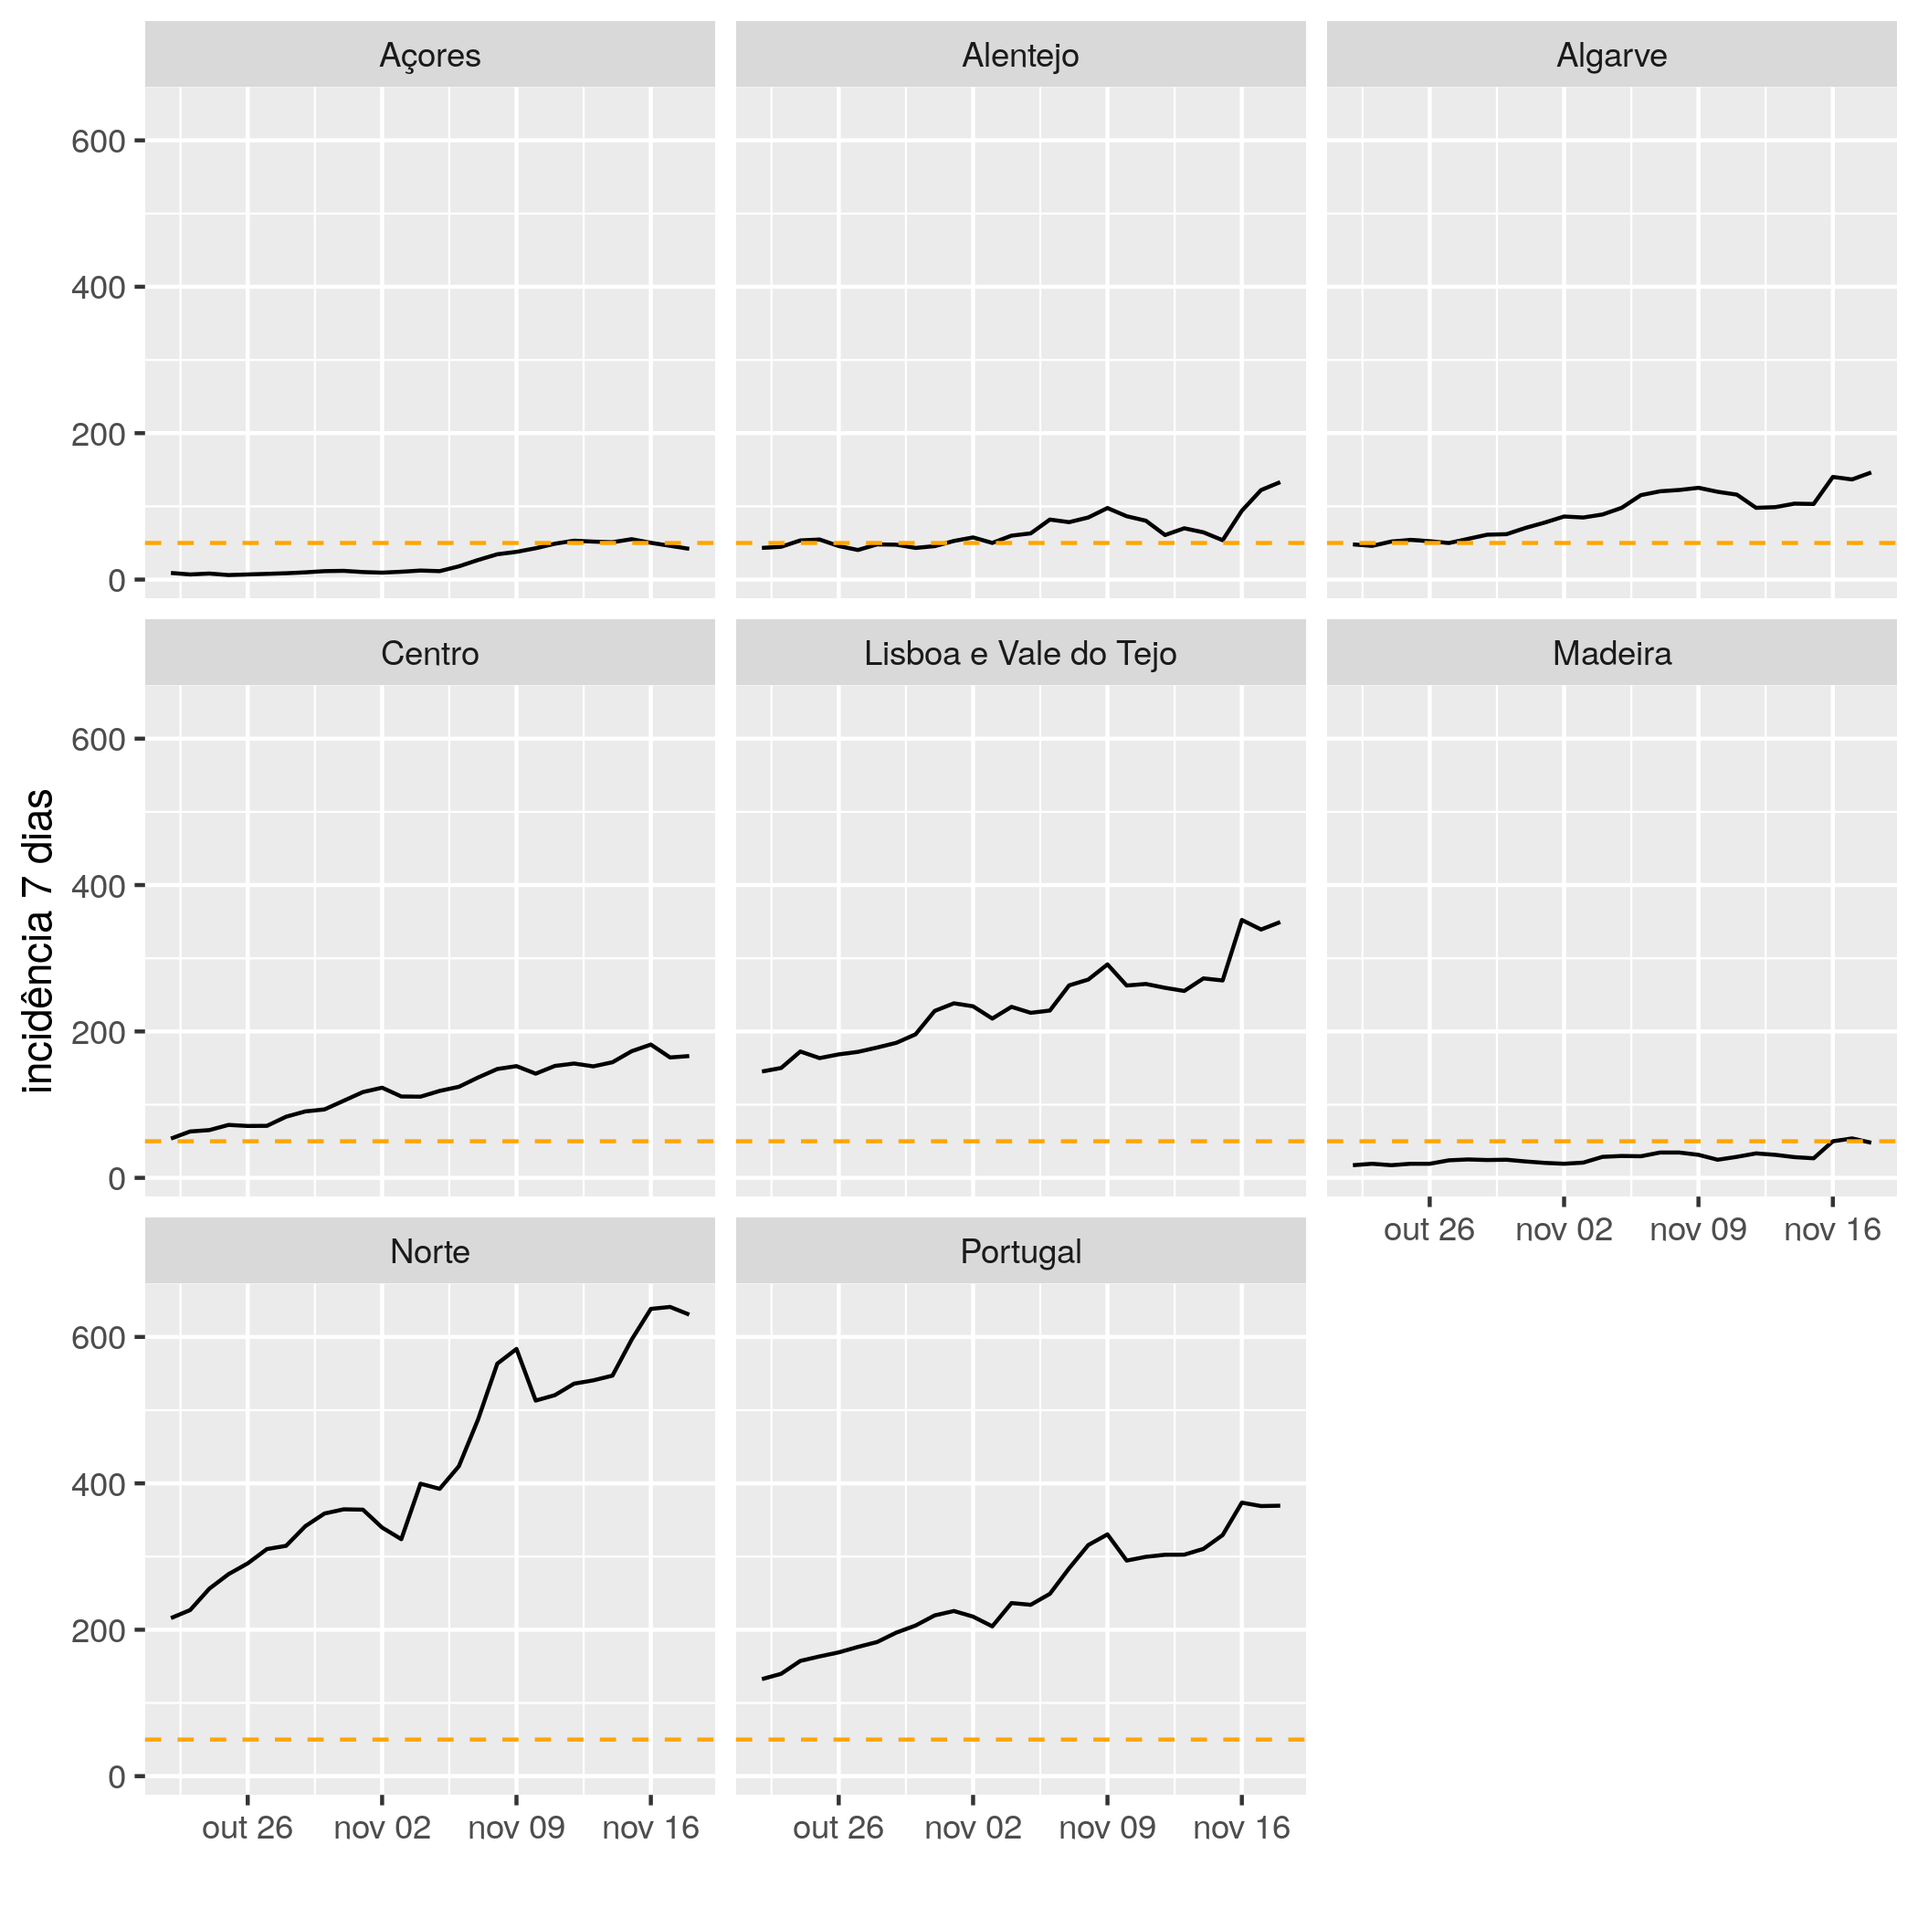
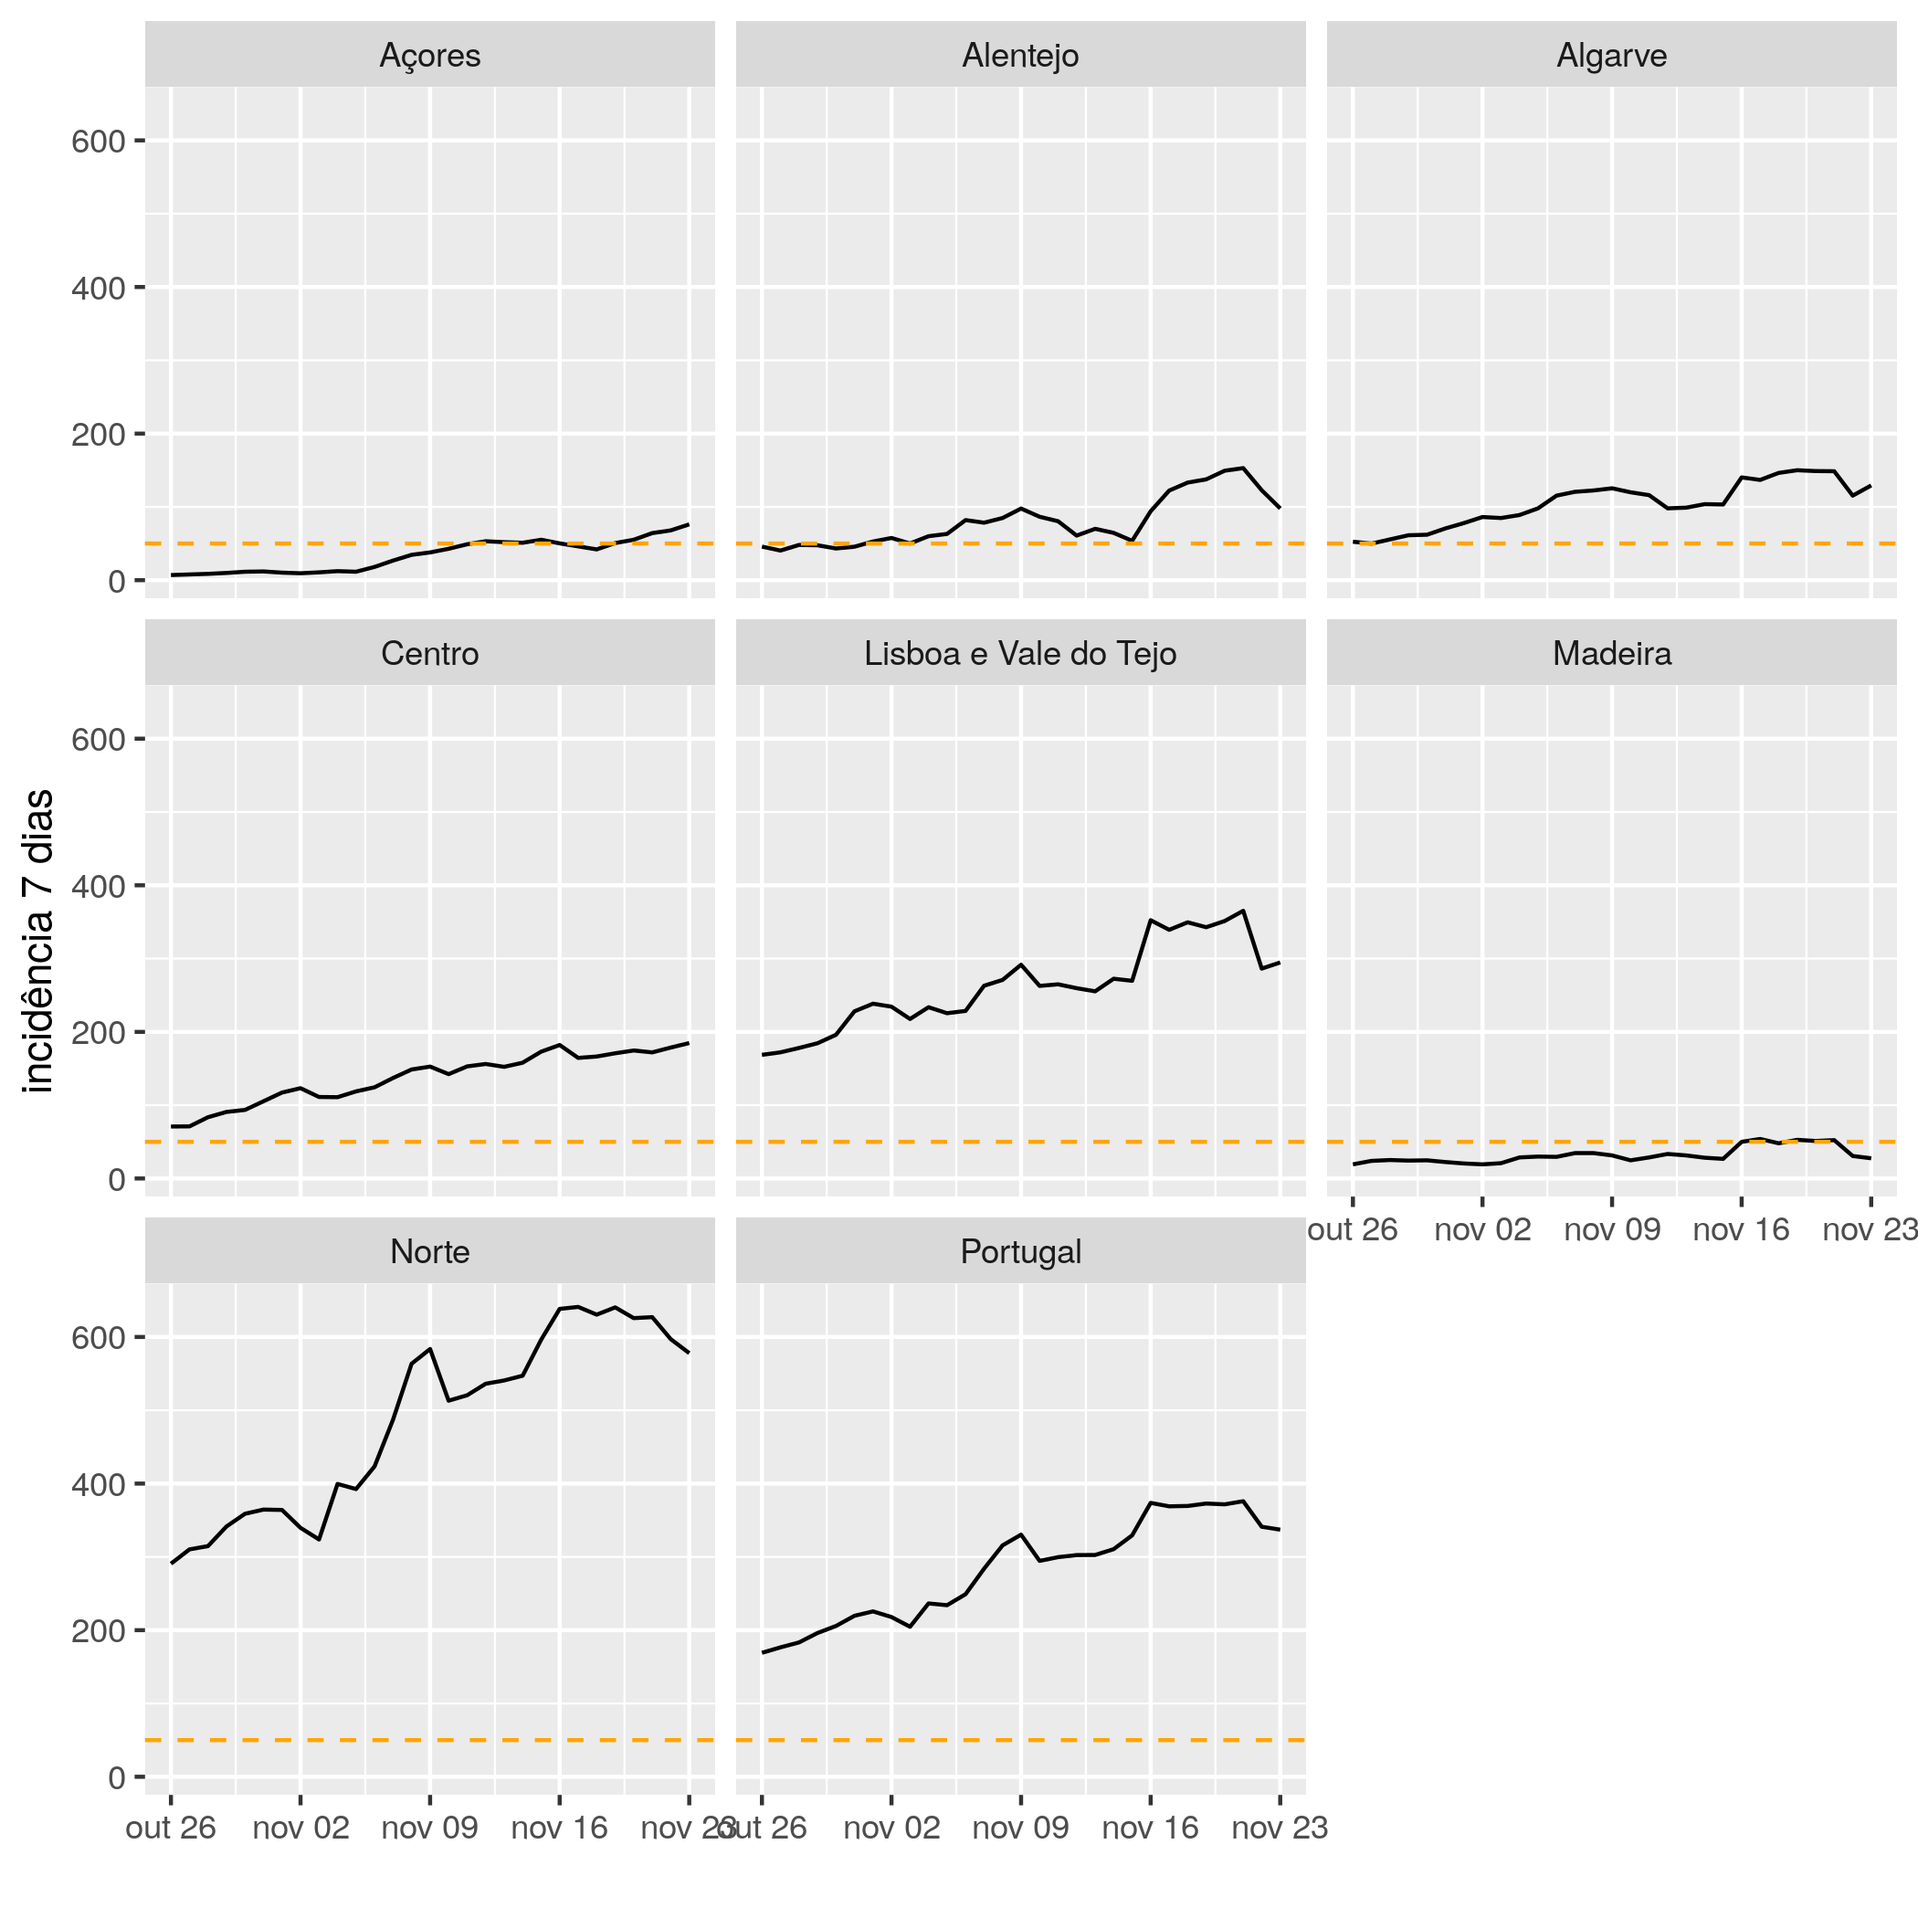
a descer?

diff --git a/README.md b/README.md
@@ -1,7 +1,7 @@
 # Contexto
-A incidência por 100000 habitantes em 7 dias é o valor de referência para decretar regiões de risco pelas autoridades de saúde alemãs (valor charneira é 50, ie LVT, Norte e Centro já são regiões de risco). Gráficos atualizados diariamente. Para ajudar quem quer viajar para a Alemanha ou vir passar férias a Portugal.
+A incidência por 100000 habitantes em 7 dias é o valor de referência para decretar regiões de risco pelas autoridades de saúde alemãs (valor charneira é 50). Gráficos atualizados diariamente. Para ajudar quem quer viajar para a Alemanha ou vir passar férias a Portugal.
 
-Dados mais recentes de 2020-11-18.
+Dados mais recentes de 2020-11-23.
 
 # Incidência por 100000 habitantes em 7 dias
 ## Últimos 30 dias
